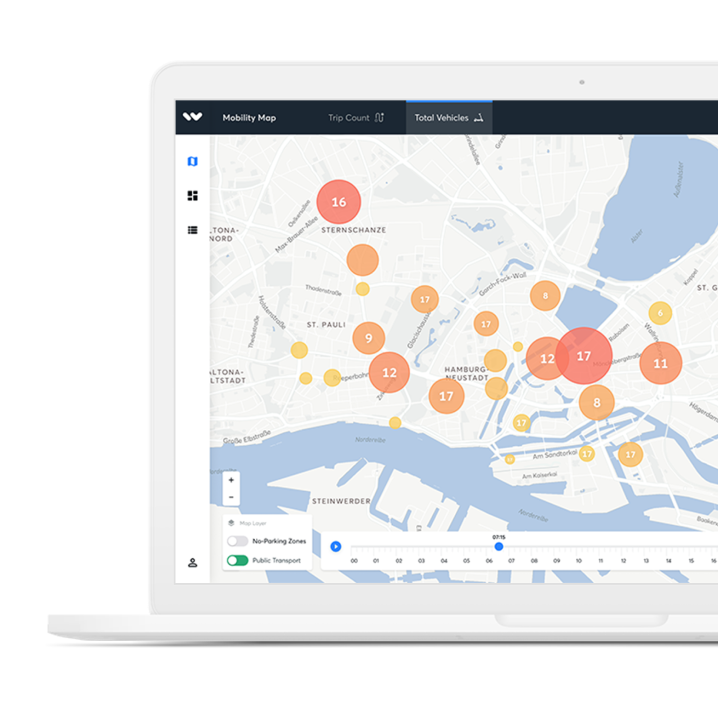
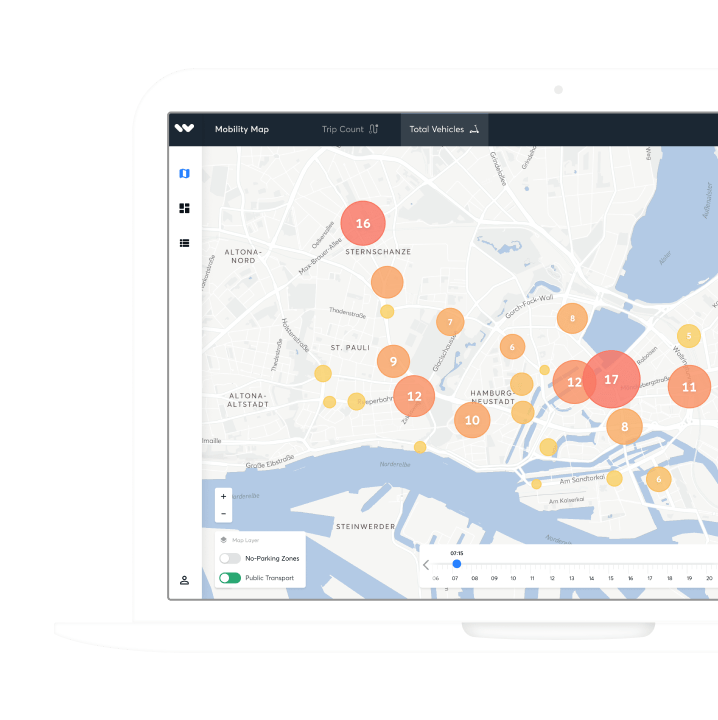
new city mockup, DE bug fixes

Changed region(s): [[0.0613, 0.1222, 1.0, 0.9167], [0.337, 0.4278, 0.3983, 0.4889], [0.2758, 0.3667, 0.3064, 0.3972]]

diff --git a/_includes/block-hero-hp.html b/_includes/block-hero-hp.html
@@ -14,7 +14,7 @@
           <div class="hero-banner__title-wrapper">
             <h1 class="headline-large">{{ section.headline }}</h1>
             {% if section.cta.enabled %}
-              <a class="gt-headercta text-link white-text {% if section.cta.button_text contains 'film' %}with-play gt-videoplay{% endif %}" href="{{ section.cta.url }}" target="_blank"{% if section.cta.button_text contains "film" %} data-toggle="modal" data-target="#filmModal"{% endif %}>{{ section.cta.button_text }}</a>
+              <a class="gt-headercta text-link white-text {% if section.cta.button_text contains 'film' or section.cta.button_text contains 'Film'  %}with-play gt-videoplay{% endif %}" href="{{ section.cta.url }}" target="_blank"{% if section.cta.button_text contains "film" or section.cta.button_text contains 'Film' %} data-toggle="modal" data-target="#filmModal"{% endif %}>{{ section.cta.button_text }}</a>
             {% endif %}
           </div>
         </div>

diff --git a/_includes/static/block-home-main.html b/_includes/static/block-home-main.html
@@ -167,6 +167,7 @@
   </section>
 
 
+{% comment %}
   <section class="showcase-box">
     <div class="container-fluid">
       <div id="showcase-wms" class="showcase-box__bg text-left d-flex justify-content-end white-text">
@@ -194,6 +195,7 @@
       }
     </style>
   </section>
+  {% endcomment %}
 
 
   <section class="showcase-box">
@@ -244,7 +246,7 @@
             </div>
           </div>
           <div class="showcase-box__image halign-right valign-bottom valign-md-center">
-            <img data-src="uploads/global/hp-city-mockupbg.png" data-srcset="uploads/global/hp-city-mockupbg@2x.png 2x" />
+            <img data-src="uploads/global/hp-city-mockupbg.png" data-srcset="uploads/global/hp-city-mockupbg@2x.png 2x" class="product-shadow" />
           </div>
         </div>
       </div>

diff --git a/_sass/hp/_global.scss b/_sass/hp/_global.scss
@@ -136,6 +136,11 @@ img {
   }
 }
 
+
+.product-shadow {
+  filter: drop-shadow(16px 0px 0px rgba(0,0,0,0.08));
+}
+
 /****** Press articles featured quote section *******/
 
 .featured-quotes {
